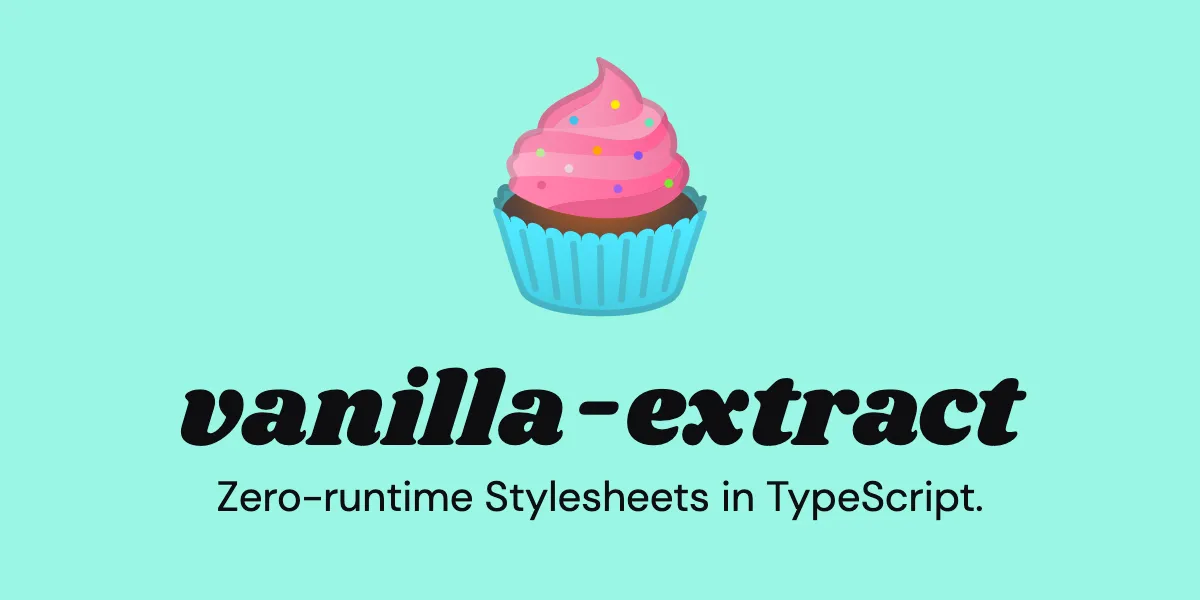
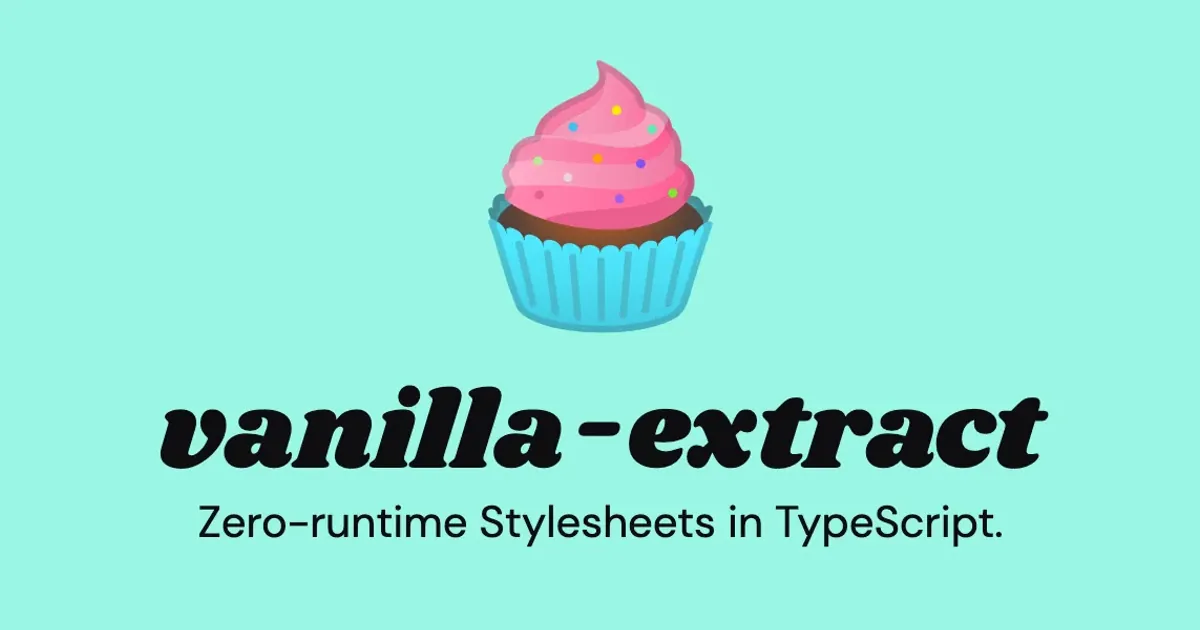
perf: 포스트 썸네일 1200x630 통일 재인코딩·카드 이미지 로딩 정리·검색 페이로드 경량화
- 썸네일 20장을 1200x630 WebP q80으로 통일 (1.9MB → 652KB). OG 선언 치수와 실제 일치,
  세로형 캡처는 상단 크롭, 밈은 흐린 배경 위 contain
- PostCard: deprecated priority → preload(첫 카드)/eager(2~4번째), sizes를 실측 폭으로 수정
  (calc()는 Next가 vw를 파싱하지 못해 vw 단위만 사용)
- /images/thumbnails/* 에 1년 immutable 캐시 헤더 → /_next/image 결과에도 전파
  (썸네일 갱신 시 파일명 변경 필요)
- 검색(⌘K)에 slug/title/description만 전달하는 getSearchPosts 추가.
  헤더·사이드바가 전체 본문을 클라이언트로 보내 홈 HTML이 837KB → 113KB

diff --git a/entities/post/ui/post-card.tsx b/entities/post/ui/post-card.tsx
@@ -3,12 +3,24 @@ import { BlogPost } from "@/shared/types";
 import Link from "next/link";
 import Image from "next/image";
 
+// preload: LCP 후보(첫 카드)만 <head> preload. eager: 첫 화면에 보이는 카드.
+// Next 16에서 priority는 deprecated — 여러 LCP 후보에 preload를 남발하지 말라는 권고.
+type ImageLoading = "preload" | "eager" | "lazy";
+
 interface PostCardProps {
   post: BlogPost;
-  priority?: boolean;
+  imageLoading?: ImageLoading;
 }
 
-export default function PostCard({ post, priority = false }: PostCardProps) {
+// 카드 썸네일 폭: 모바일 전폭, md는 사이드바(208px)·간격을 뺀 2열(실측 31~36vw), lg는 고정 256px.
+// calc()를 쓰면 Next가 vw를 파싱하지 못해 srcset 후보가 32w~3840w 전부로 늘어나므로 vw 단위만 사용.
+const THUMBNAIL_SIZES =
+  "(max-width: 767px) 100vw, (max-width: 1023px) 36vw, 256px";
+
+export default function PostCard({
+  post,
+  imageLoading = "lazy",
+}: PostCardProps) {
   return (
     <Link
       key={post.slug}
@@ -21,8 +33,9 @@ export default function PostCard({ post, priority = false }: PostCardProps) {
             src={post.thumbnail}
             alt={post.title}
             fill
-            priority={priority}
-            sizes="(max-width: 768px) 100vw, (max-width: 1024px) 50vw, 256px"
+            preload={imageLoading === "preload"}
+            loading={imageLoading === "eager" ? "eager" : undefined}
+            sizes={THUMBNAIL_SIZES}
             className="object-cover"
           />
         </div>

diff --git a/entities/post/api/mdx.ts b/entities/post/api/mdx.ts
@@ -1,7 +1,7 @@
 import fs from "fs";
 import path from "path";
 import matter from "gray-matter";
-import { BlogPost } from "@/shared/types";
+import { BlogPost, SearchPost } from "@/shared/types";
 import { getTime } from "date-fns";
 
 const postsDirectory = path.join(process.cwd(), "content/posts");
@@ -50,6 +50,16 @@ export function getAllPosts(category?: string, tag?: string): BlogPost[] {
   }
 
   return filteredPosts.sort((a, b) => getTime(b.date) - getTime(a.date));
+}
+
+// 검색 다이얼로그(클라이언트)에 넘길 최소 필드. 본문을 포함하면 모든 페이지의
+// RSC 페이로드에 전체 글 본문이 실려 HTML이 수백 KB 커진다.
+export function getSearchPosts(): SearchPost[] {
+  return getAllPosts().map(({ slug, title, description }) => ({
+    slug,
+    title,
+    description,
+  }));
 }
 
 export function getPostBySlug(slug: string): BlogPost | null {

diff --git a/app/page.tsx b/app/page.tsx
@@ -2,7 +2,7 @@ import type { Metadata } from "next";
 import { getSidebarData } from "@/entities/post/lib/sidebar";
 import Sidebar from "@/widgets/sidebar/ui/sidebar";
 import PostsList from "@/widgets/posts-list/ui/posts-list";
-import { getAllPosts } from "@/entities/post/api/mdx";
+import { getSearchPosts } from "@/entities/post/api/mdx";
 import { SITE_URL } from "@/shared/lib/site";
 
 interface HomeProps {
@@ -31,7 +31,7 @@ export async function generateMetadata({
 export default async function Home({ searchParams }: HomeProps) {
   const params = await searchParams;
   const { sidebarData, categoryCounts } = getSidebarData();
-  const posts = getAllPosts();
+  const posts = getSearchPosts();
 
   return (
     <div className="gap-0 md:flex md:gap-8">

diff --git a/next.config.ts b/next.config.ts
@@ -15,6 +15,22 @@ const nextConfig: NextConfig = {
       },
     ],
   },
+  async headers() {
+    return [
+      // 포스트 썸네일은 파일명 변경으로만 갱신한다(동일 파일명 덮어쓰기 금지).
+      // 원본에 긴 Cache-Control을 주면 /_next/image 최적화 결과도 이 max-age를 따라간다
+      // (기본 minimumCacheTTL 4시간 대신 1년).
+      {
+        source: "/images/thumbnails/:path*",
+        headers: [
+          {
+            key: "Cache-Control",
+            value: "public, max-age=31536000, immutable",
+          },
+        ],
+      },
+    ];
+  },
   async redirects() {
     return [
       // 오타 slug로 색인된 URL을 유지하기 위한 영구 리다이렉트

diff --git a/widgets/header/ui/header.tsx b/widgets/header/ui/header.tsx
@@ -2,7 +2,7 @@ import Link from "next/link";
 import HeaderClient from "@/widgets/header/ui/header-client";
 import ProgressClient from "@/features/reading-progress/ui/progress-client";
 import Search from "@/features/search/ui/search";
-import { getAllPosts } from "@/entities/post/api/mdx";
+import { getSearchPosts } from "@/entities/post/api/mdx";
 
 const navItems = [
   {
@@ -23,7 +23,7 @@ const navItems = [
 ];
 
 export default function Header() {
-  const posts = getAllPosts();
+  const posts = getSearchPosts();
 
   return (
     <header className="fixed w-full border-b backdrop-blur-xl bg-background/50 z-10 border-border">

diff --git a/widgets/posts-list/ui/posts-list.tsx b/widgets/posts-list/ui/posts-list.tsx
@@ -45,7 +45,12 @@ export default function PostsList({ searchParams }: PostsListProps) {
       >
         {posts.map((post, index) => (
           <li key={post.slug} className="contents">
-            <PostCard post={post} priority={index < 4} />
+            <PostCard
+              post={post}
+              imageLoading={
+                index === 0 ? "preload" : index < 4 ? "eager" : "lazy"
+              }
+            />
           </li>
         ))}
       </ul>

diff --git a/features/search/ui/search.tsx b/features/search/ui/search.tsx
@@ -2,7 +2,7 @@
 
 import { FileTextIcon } from "lucide-react";
 import useSearchPost from "@/features/search/model/useSearchPost";
-import { BlogPost } from "@/shared/types";
+import { SearchPost } from "@/shared/types";
 import { Button } from "@/shared/ui/button";
 import {
   CommandDialog,
@@ -15,7 +15,7 @@ import {
 import { Kbd } from "@/shared/ui/kbd";
 
 interface SearchProps {
-  posts: BlogPost[];
+  posts: SearchPost[];
   isMobileView?: boolean;
 }
 

diff --git a/shared/types/index.ts b/shared/types/index.ts
@@ -11,6 +11,9 @@ interface BlogPost {
   content: string;
 }
 
+// 검색(⌘K)에 필요한 필드만 — 본문(content)을 클라이언트로 보내지 않기 위함
+type SearchPost = Pick<BlogPost, "slug" | "title" | "description">;
+
 interface Guestbook {
   id: number;
   name: string;
@@ -20,4 +23,4 @@ interface Guestbook {
   createdAt: string;
 }
 
-export type { BlogPost, Guestbook };
+export type { BlogPost, SearchPost, Guestbook };

diff --git a/features/search/model/useSearchPost.tsx b/features/search/model/useSearchPost.tsx
@@ -1,8 +1,8 @@
-import { BlogPost } from "@/shared/types";
+import { SearchPost } from "@/shared/types";
 import { useRouter } from "next/navigation";
 import { useCallback, useEffect, useState } from "react";
 
-const useSearchPost = (posts: BlogPost[]) => {
+const useSearchPost = (posts: SearchPost[]) => {
   const router = useRouter();
 
   const [open, setOpen] = useState(false);

diff --git a/widgets/sidebar/ui/sidebar.tsx b/widgets/sidebar/ui/sidebar.tsx
@@ -11,12 +11,12 @@ import {
   CollapsibleContent,
   CollapsibleTrigger,
 } from "@/shared/ui/collapsible";
-import { BlogPost } from "@/shared/types";
+import { SearchPost } from "@/shared/types";
 
 interface SidebarProps {
   sidebarData: SidebarData;
   categoryCounts: { [key: string]: number };
-  posts: BlogPost[];
+  posts: SearchPost[];
 }
 
 interface SidebarContentProps {

diff --git a/entities/post/index.ts b/entities/post/index.ts
@@ -4,6 +4,7 @@
 // api
 export {
   getAllPosts,
+  getSearchPosts,
   getPostBySlug,
   getAllPostSlugs,
   getAdjacentPosts,
